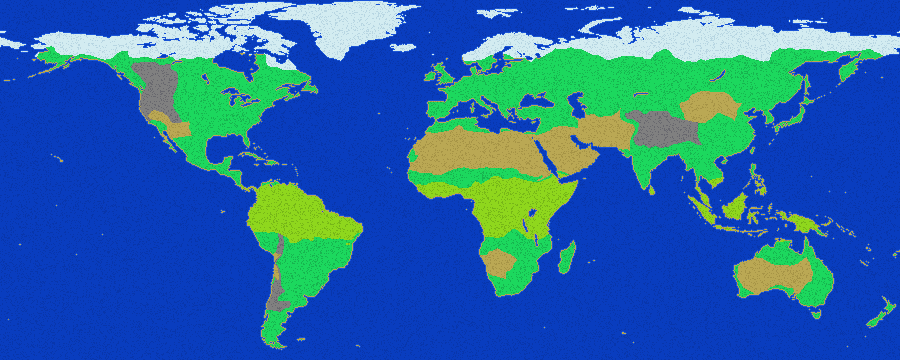
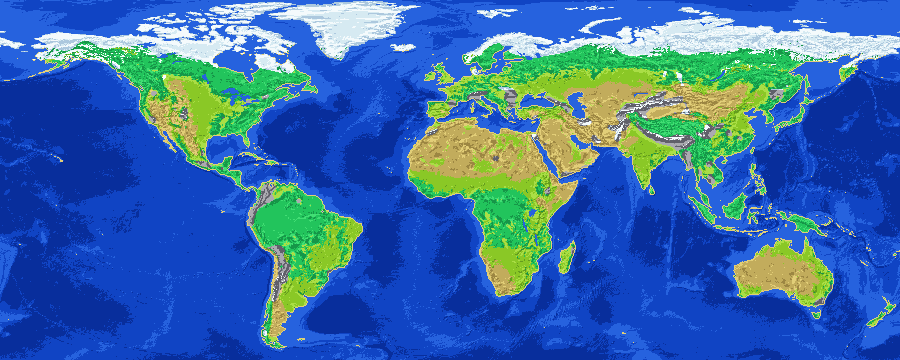
World map redrawn from Natural Earth land cover and relief in Terraria tiles; sharper map for the full view

diff --git a/index.html b/index.html
@@ -9,7 +9,7 @@
 <link rel="preconnect" href="https://fonts.googleapis.com">
 <link rel="preconnect" href="https://fonts.gstatic.com" crossorigin>
 <link rel="stylesheet" href="https://fonts.googleapis.com/css2?family=Nunito:ital,wght@0,400;0,600;0,700;0,800;1,400&family=Press+Start+2P&display=swap">
-<link rel="stylesheet" href="style.css?v=8f1d2e6e">
+<link rel="stylesheet" href="style.css?v=6a16fdd7">
 <script>
 // On desktop the whole page scales with the window so the panels always take about 55% of its
 // width, with sky either side. The scale follows the window's real width, not the browser
@@ -30,27 +30,27 @@
 <body>
 
 <div class="sky" aria-hidden="true">
-  <img class="cloud far cloud-1" src="img/critters/cloud-3.png?v=006f0bb2" width="181" height="44" alt="">
-  <img class="cloud far cloud-2" src="img/critters/cloud-6.png?v=006f0bb2" width="139" height="44" alt="">
-  <img class="cloud far cloud-3" src="img/critters/cloud-1.png?v=006f0bb2" width="128" height="42" alt="">
-  <img class="cloud far cloud-4" src="img/critters/cloud-5.png?v=006f0bb2" width="127" height="52" alt="">
-  <img class="cloud far cloud-5" src="img/critters/cloud-4.png?v=006f0bb2" width="209" height="47" alt="">
-  <img class="cloud far cloud-6" src="img/critters/cloud-3.png?v=006f0bb2" width="181" height="44" alt="">
-  <img class="cloud far cloud-7" src="img/critters/cloud-6.png?v=006f0bb2" width="139" height="44" alt="">
-  <img class="cloud far cloud-8" src="img/critters/cloud-1.png?v=006f0bb2" width="128" height="42" alt="">
-  <img class="cloud near cloud-9" src="img/critters/cloud-2.png?v=006f0bb2" width="195" height="90" alt="">
-  <img class="cloud near cloud-10" src="img/critters/cloud-7.png?v=006f0bb2" width="238" height="72" alt="">
-  <img class="cloud near cloud-11" src="img/critters/cloud-4.png?v=006f0bb2" width="209" height="47" alt="">
-  <img class="cloud near cloud-12" src="img/critters/cloud-1.png?v=006f0bb2" width="128" height="42" alt="">
-  <img class="cloud near cloud-13" src="img/critters/cloud-5.png?v=006f0bb2" width="127" height="52" alt="">
-  <img class="cloud near cloud-14" src="img/critters/cloud-2.png?v=006f0bb2" width="195" height="90" alt="">
-  <img class="cloud near cloud-15" src="img/critters/cloud-6.png?v=006f0bb2" width="139" height="44" alt="">
-  <img class="cloud near cloud-16" src="img/critters/cloud-3.png?v=006f0bb2" width="181" height="44" alt="">
-  <img class="cloud near cloud-17" src="img/critters/cloud-7.png?v=006f0bb2" width="238" height="72" alt="">
-  <img class="cloud near cloud-18" src="img/critters/cloud-4.png?v=006f0bb2" width="209" height="47" alt="">
-  <img class="tree" src="img/critters/tree-1.png?v=006f0bb2" width="108" height="266" alt="" hidden>
-  <img class="tree" src="img/critters/tree-2.png?v=006f0bb2" width="76" height="142" alt="" hidden>
-  <img class="tree" src="img/critters/tree-3.png?v=006f0bb2" width="88" height="430" alt="" hidden>
+  <img class="cloud far cloud-1" src="img/critters/cloud-3.png?v=70de6bcd" width="181" height="44" alt="">
+  <img class="cloud far cloud-2" src="img/critters/cloud-6.png?v=70de6bcd" width="139" height="44" alt="">
+  <img class="cloud far cloud-3" src="img/critters/cloud-1.png?v=70de6bcd" width="128" height="42" alt="">
+  <img class="cloud far cloud-4" src="img/critters/cloud-5.png?v=70de6bcd" width="127" height="52" alt="">
+  <img class="cloud far cloud-5" src="img/critters/cloud-4.png?v=70de6bcd" width="209" height="47" alt="">
+  <img class="cloud far cloud-6" src="img/critters/cloud-3.png?v=70de6bcd" width="181" height="44" alt="">
+  <img class="cloud far cloud-7" src="img/critters/cloud-6.png?v=70de6bcd" width="139" height="44" alt="">
+  <img class="cloud far cloud-8" src="img/critters/cloud-1.png?v=70de6bcd" width="128" height="42" alt="">
+  <img class="cloud near cloud-9" src="img/critters/cloud-2.png?v=70de6bcd" width="195" height="90" alt="">
+  <img class="cloud near cloud-10" src="img/critters/cloud-7.png?v=70de6bcd" width="238" height="72" alt="">
+  <img class="cloud near cloud-11" src="img/critters/cloud-4.png?v=70de6bcd" width="209" height="47" alt="">
+  <img class="cloud near cloud-12" src="img/critters/cloud-1.png?v=70de6bcd" width="128" height="42" alt="">
+  <img class="cloud near cloud-13" src="img/critters/cloud-5.png?v=70de6bcd" width="127" height="52" alt="">
+  <img class="cloud near cloud-14" src="img/critters/cloud-2.png?v=70de6bcd" width="195" height="90" alt="">
+  <img class="cloud near cloud-15" src="img/critters/cloud-6.png?v=70de6bcd" width="139" height="44" alt="">
+  <img class="cloud near cloud-16" src="img/critters/cloud-3.png?v=70de6bcd" width="181" height="44" alt="">
+  <img class="cloud near cloud-17" src="img/critters/cloud-7.png?v=70de6bcd" width="238" height="72" alt="">
+  <img class="cloud near cloud-18" src="img/critters/cloud-4.png?v=70de6bcd" width="209" height="47" alt="">
+  <img class="tree" src="img/critters/tree-1.png?v=70de6bcd" width="108" height="266" alt="" hidden>
+  <img class="tree" src="img/critters/tree-2.png?v=70de6bcd" width="76" height="142" alt="" hidden>
+  <img class="tree" src="img/critters/tree-3.png?v=70de6bcd" width="88" height="430" alt="" hidden>
 </div>
 
 <canvas class="sky-critters" aria-hidden="true"></canvas>
@@ -71,28 +71,28 @@
   <div class="minimap" data-zoom="2">
     <div class="map-window">
       <div class="map-world">
-        <img class="map-tiles" src="img/hud/world.png?v=006f0bb2" width="900" height="360" alt="A world map drawn like Terraria's, with Yusheng's head over Chicago">
+        <img class="map-tiles" src="img/hud/world.png?v=70de6bcd" width="900" height="360" alt="A world map drawn like Terraria's, with Yusheng's head over Chicago">
       </div>
-      <span class="map-me"><span class="map-ping" aria-hidden="true"></span><img src="img/hud/head.png?v=006f0bb2" width="15" height="14" alt=""><span class="map-name">Chicago</span></span>
+      <span class="map-me"><span class="map-ping" aria-hidden="true"></span><img src="img/hud/head.png?v=70de6bcd" width="15" height="14" alt=""><span class="map-name">Chicago</span></span>
     </div>
     <button class="map-open" type="button" aria-haspopup="dialog" aria-label="Open the world map"></button>
-    <img class="map-frame" src="img/hud/frame.png?v=006f0bb2" width="256" height="264" alt="">
+    <img class="map-frame" src="img/hud/frame.png?v=70de6bcd" width="256" height="264" alt="">
     <button class="map-btn" type="button" data-map="reset" aria-label="Center the map on Chicago"></button>
     <button class="map-btn" type="button" data-map="out" aria-label="Zoom the map out"></button>
     <button class="map-btn" type="button" data-map="in" aria-label="Zoom the map in"></button>
   </div>
   <ul class="info">
-      <li><img src="img/hud/watch.png?v=006f0bb2" width="30" height="30" alt="Gold Watch"><span data-info="time">Time</span></li>
-      <li><img src="img/hud/compass.png?v=006f0bb2" width="28" height="28" alt="Compass"><span data-info="place">41° N, 87° W</span></li>
-      <li><img src="img/hud/weather-radio.png?v=006f0bb2" width="34" height="32" alt="Weather Radio"><span data-info="weather">Chicago weather</span></li>
+      <li><img src="img/hud/watch.png?v=70de6bcd" width="30" height="30" alt="Gold Watch"><span data-info="time">Time</span></li>
+      <li><img src="img/hud/compass.png?v=70de6bcd" width="28" height="28" alt="Compass"><span data-info="place">41° N, 87° W</span></li>
+      <li><img src="img/hud/weather-radio.png?v=70de6bcd" width="34" height="32" alt="Weather Radio"><span data-info="weather">Chicago weather</span></li>
   </ul>
 </aside>
 
 <dialog class="worldmap" aria-label="World map" data-counter="https://visitor-map.yusheng-tan.workers.dev">
   <div class="wm-view">
-    <div class="wm-world"><img src="img/hud/world.png?v=006f0bb2" width="900" height="360" draggable="false" alt="The whole world drawn like Terraria's map, with Yusheng's head over Chicago"></div>
+    <div class="wm-world"><img src="img/hud/world-2x.png?v=70de6bcd" width="900" height="360" loading="lazy" draggable="false" alt="The whole world drawn like Terraria's map, with Yusheng's head over Chicago"></div>
     <div class="wm-places"></div>
-    <span class="wm-me"><span class="map-ping" aria-hidden="true"></span><img src="img/hud/head.png?v=006f0bb2" width="15" height="14" alt="" draggable="false"><span class="map-name">Chicago</span></span>
+    <span class="wm-me"><span class="map-ping" aria-hidden="true"></span><img src="img/hud/head.png?v=70de6bcd" width="15" height="14" alt="" draggable="false"><span class="map-name">Chicago</span></span>
   </div>
   <p class="wm-total" hidden></p>
   <p class="wm-hint">Scroll or pinch to zoom, drag to move, Esc to close</p>
@@ -316,7 +316,7 @@
   links.forEach((a) => a.addEventListener('click', () => { jumping = true; clearTimeout(settle); settle = setTimeout(() => { jumping = false; hud.classList.remove('is-hidden'); }, 1200); }));
 })();
 </script>
-<script src="critters.js?v=2699c8f6" data-v="006f0bb2" defer></script>
+<script src="critters.js?v=2699c8f6" data-v="70de6bcd" defer></script>
 <script src="hud.js?v=21702ecc" defer></script>
 </body>
 </html>

diff --git a/style.css b/style.css
@@ -467,7 +467,7 @@ a.pub-title:active { color: var(--color-ink); }
 .wm-view img { -webkit-user-drag: none; }
 .wm-view.is-dragging { cursor: grabbing; }
 .wm-world { position: absolute; left: 0; top: 0; transform-origin: 0 0; }
-.wm-world img { display: block; max-width: none; }
+.wm-world img { display: block; max-width: none; width: 900px; height: 360px; }
 .wm-me { position: absolute; left: 0; top: 0; translate: -50% 0; display: grid; justify-items: center; pointer-events: none; }
 .wm-me > img { width: 45px; height: 42px; position: relative; translate: 0 -50%; }
 .wm-me .map-ping { top: 0; width: 52px; height: 52px; }
